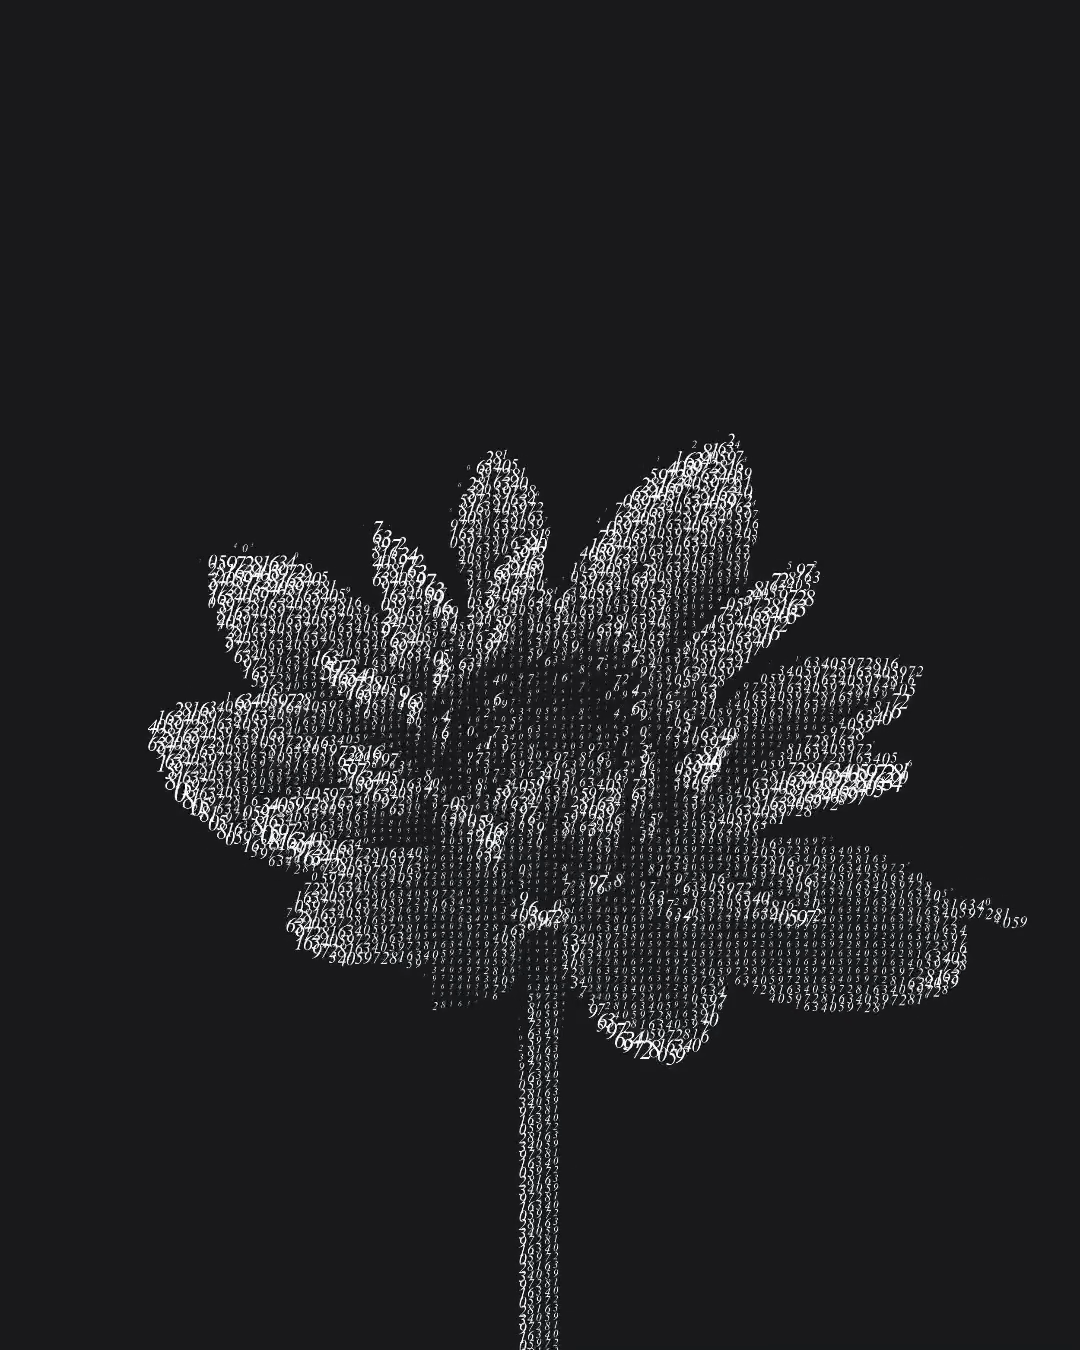
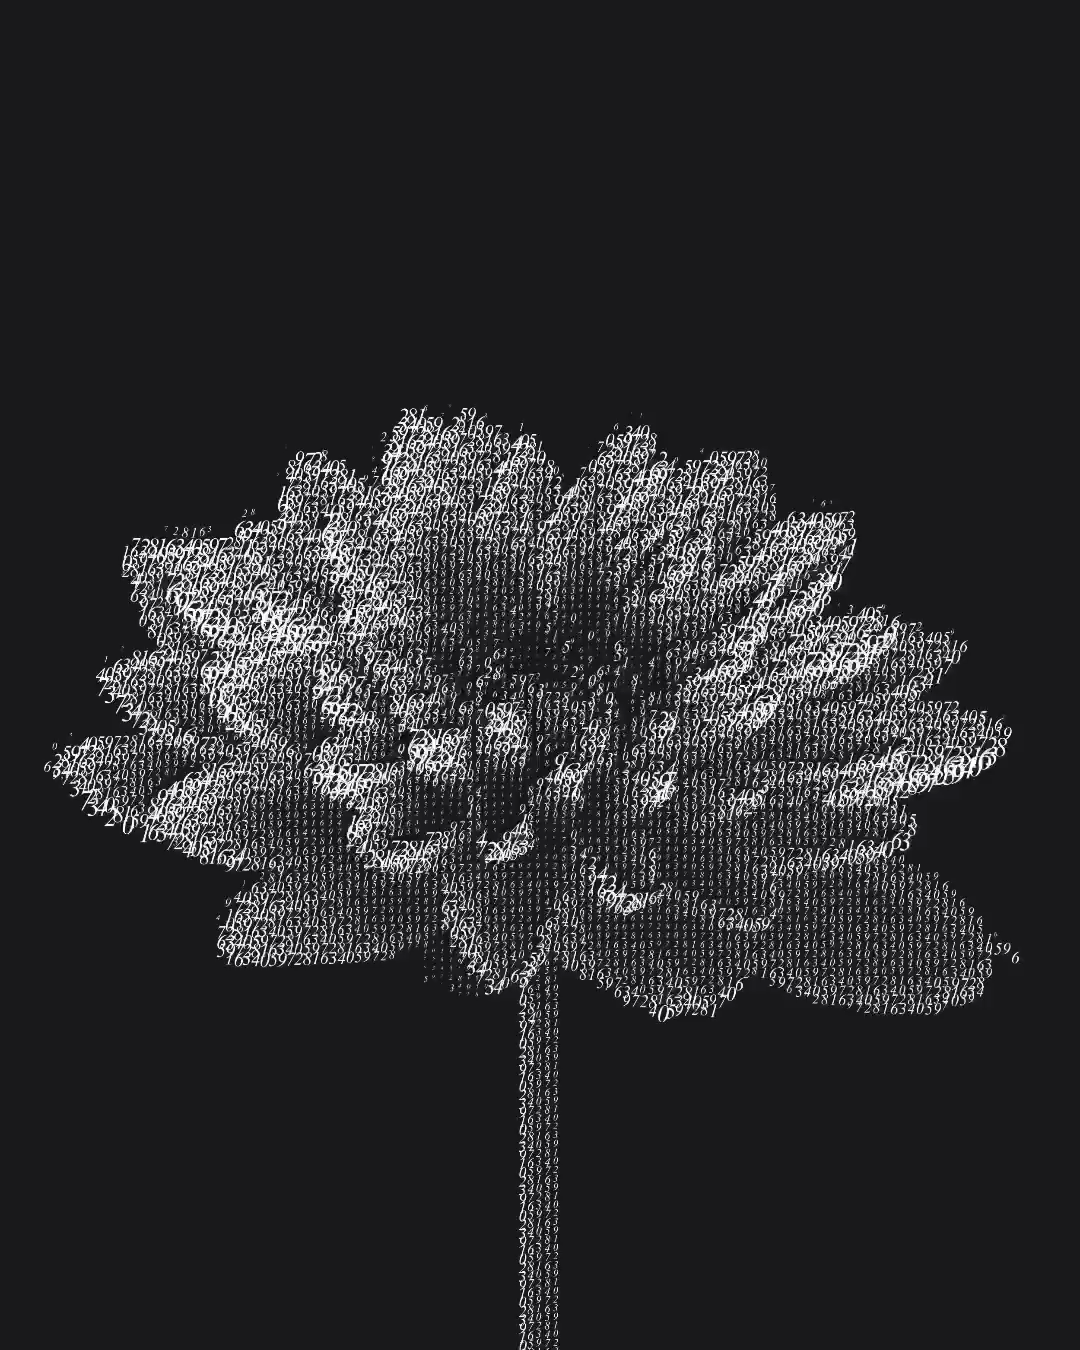
Mobile loading: 1 flower only; update bloom frame to 10s (full bloom)

Changed region(s): [[0.0306, 0.28, 0.9472, 1.0]]

diff --git a/src/components/LoadingScreen.tsx b/src/components/LoadingScreen.tsx
@@ -233,11 +233,14 @@ export default function LoadingScreen({ onDone }: { onDone: () => void }) {
         gap: 0,
         zIndex: 2,
       }}>
-        {[
-          { w: 160, h: 200, mt: 20, delay: 800  },
-          { w: 220, h: 270, mt: -10, delay: 0   },
-          { w: 160, h: 200, mt: 20, delay: 1400 },
-        ].map((f, i) => (
+        {(window.innerWidth < 768
+          ? [{ w: 220, h: 270, mt: 0, delay: 0 }]
+          : [
+              { w: 160, h: 200, mt: 20, delay: 800  },
+              { w: 220, h: 270, mt: -10, delay: 0   },
+              { w: 160, h: 200, mt: 20, delay: 1400 },
+            ]
+        ).map((f, i) => (
           <div key={i} style={{ marginTop: f.mt, flexShrink: 0 }}>
             <AsciiVideo
               src="/cosmos-1.mp4"